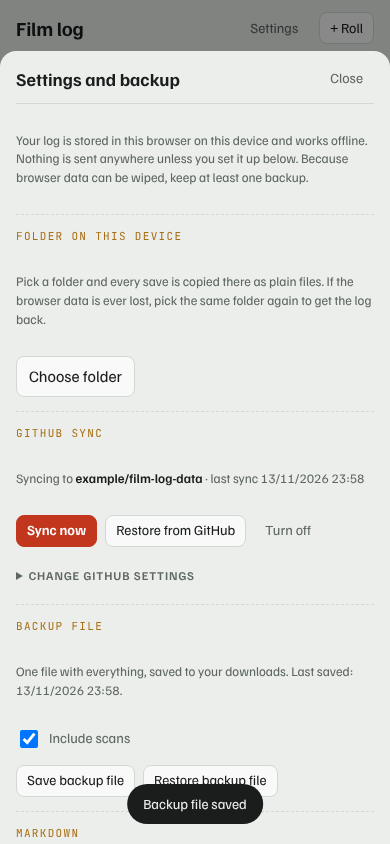
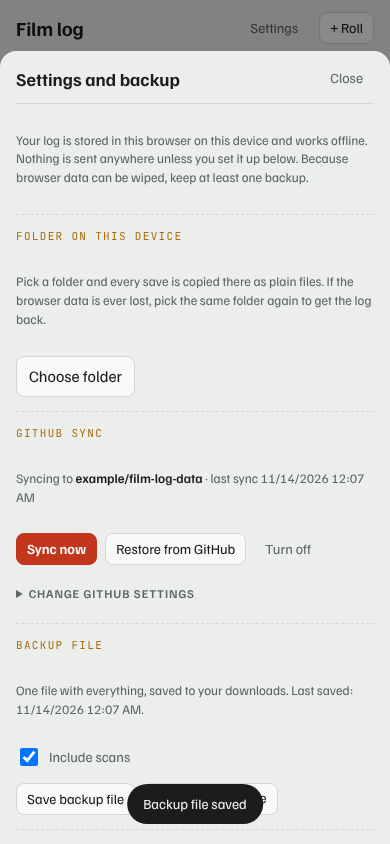
Screenshots: one date format across all three
The headless test browser renders native date fields in US English
regardless of the context locale, so the whole test run uses en-US.

Claude-Session: https://claude.ai/code/session_01KcJUmRpgootFaasABVMDKB

diff --git a/tests/e2e.js b/tests/e2e.js
@@ -27,7 +27,7 @@ async function ghRoute(route) {
 (async () => {
   await new Promise(r => server.listen(8765, r)); const URL0 = 'http://localhost:8765/';
   const b = await chromium.launch();
-  const ctx = await b.newContext({ locale: 'en-GB', viewport: { width: 390, height: 844 }, geolocation: { latitude: 50.73741, longitude: 7.09823, accuracy: 9 }, permissions: ['geolocation'], acceptDownloads: true });
+  const ctx = await b.newContext({ locale: 'en-US', viewport: { width: 390, height: 844 }, geolocation: { latitude: 50.73741, longitude: 7.09823, accuracy: 9 }, permissions: ['geolocation'], acceptDownloads: true });
   await ctx.route('https://api.github.com/**', ghRoute);
   const p = await ctx.newPage(); const errs = [];
   p.on('pageerror', e => errs.push('pageerror ' + e.message)); p.on('console', m => { if (m.type() === 'error') errs.push('console ' + m.text()); });
